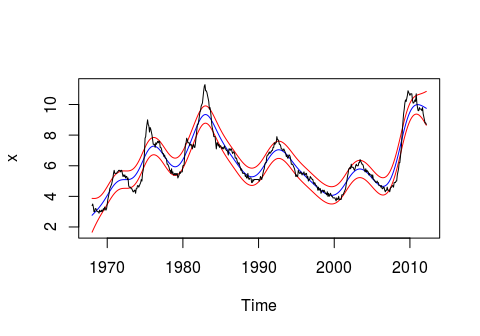
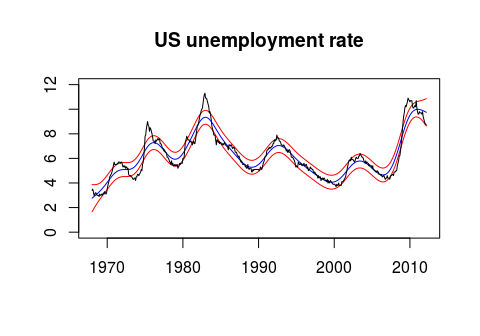
Reademe update

diff --git a/README.md b/README.md
@@ -40,7 +40,7 @@ hp_unemp <- hpfilter(unemp, freq = 14400)
 hp_unemp_conf <- hpconf(hp_unemp)
 
 # Plot
-plot(hp_unemp_conf)
+plot(hp_unemp_conf, main = "US unemployment rate", ylab = "", xlab = "", ylim = c(0, 12))
 ```
 
 <img src="README_files/figure-markdown_github/example 1-1.png" style="display: block; margin: auto;" />
